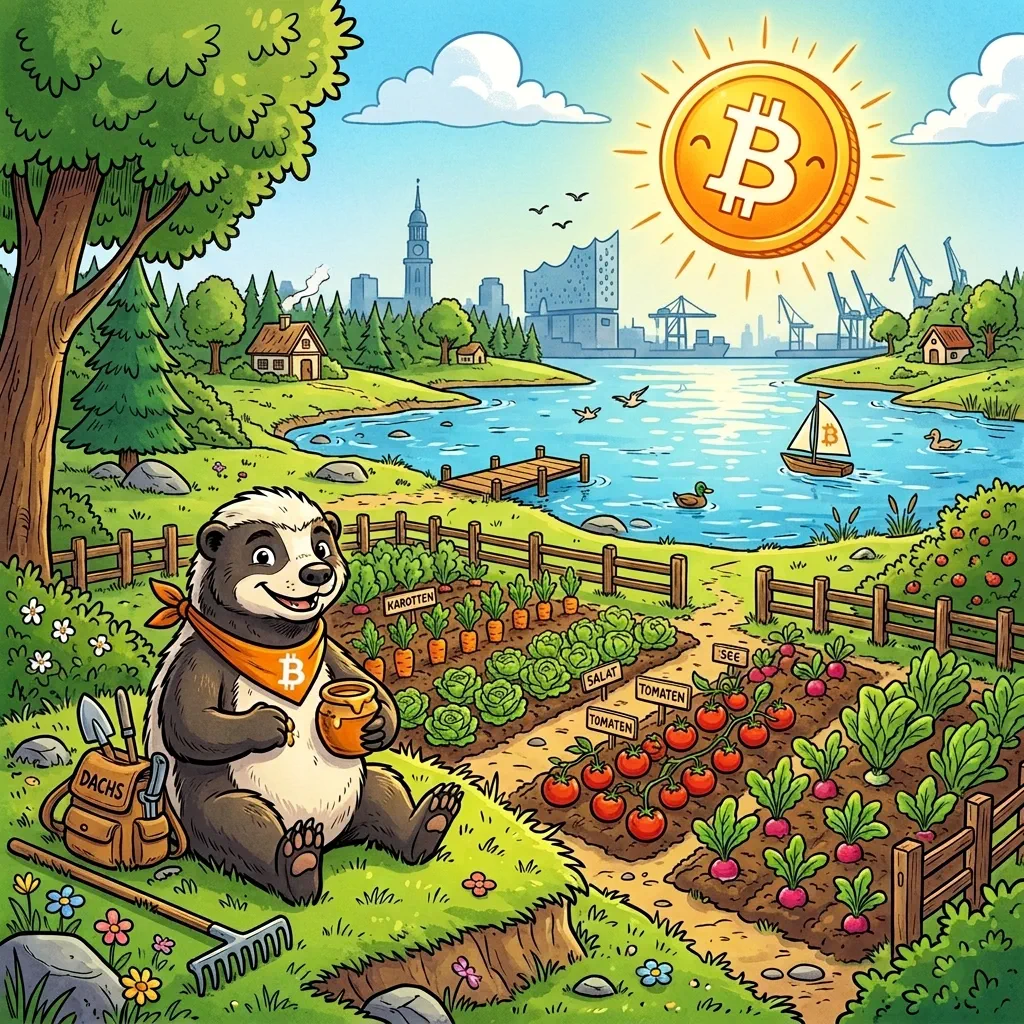
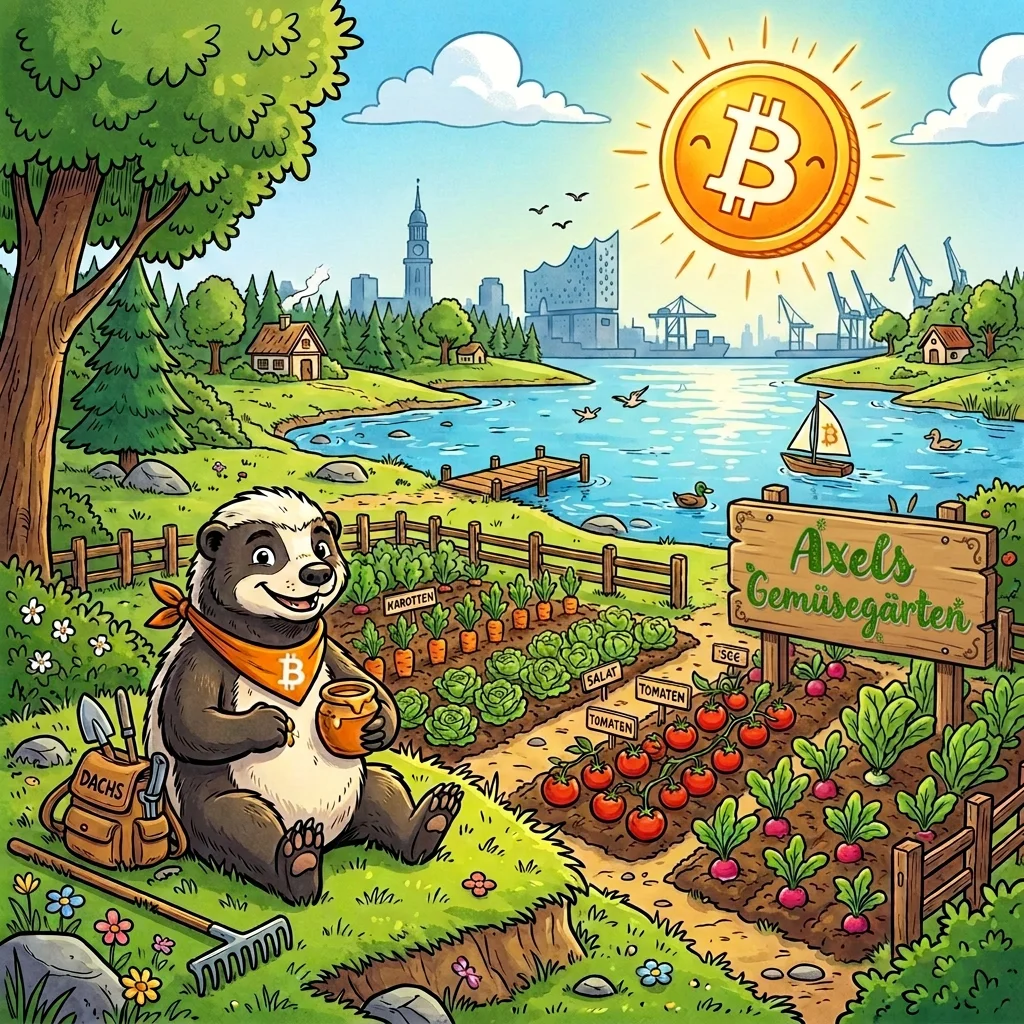
feat(poster): new illustration, drop A1 for A2, shrink PDF size
Neues Motiv (mit "Axels Gemüsegärten"-Schild) für Website und Plakat
aus temp/original/BAMO-mit-Logo-original(.png|_upscayl_4x.png)
übernommen.

- Plakat-Illustration als JPEG (statt verlustfrei PNG) eingebunden:
  BAMO21-Plakat-A4/A2.pdf schrumpft von ~36 MB auf ~3,1 MB.
- A1-Format durch A2 ersetzt (wird nicht mehr benötigt).
- Website-Illustration (assets/BAMO-Illustration.webp) und die
  Plakat-Web-Vorschau (public/poster) aktualisiert.
- BAMO21-Plakat-Vorschau.webp neu aus dem aktuellen Motiv gerendert.

diff --git a/poster/BAMO21-Plakat.html b/poster/BAMO21-Plakat.html
@@ -26,8 +26,8 @@
 			}
 
 			/*
-			 * Für A1 (594 × 841 mm): hier "size: 594mm 841mm;" eintragen und bei
-			 * .poster "zoom: 2.8284;" ergänzen. Chrome kennt kein Schlüsselwort "A1",
+			 * Für A2 (420 × 594 mm): hier "size: 420mm 594mm;" eintragen und bei
+			 * .poster "zoom: 2;" ergänzen. Chrome kennt kein Schlüsselwort "A2",
 			 * deshalb die Maße ausschreiben. Alles andere skaliert mit.
 			 */
 			@page {
@@ -272,7 +272,7 @@
 	<body>
 		<div class="poster">
 			<div class="art-frame">
-				<img src="BAMO-Illustration-4096.png" alt="" />
+				<img src="BAMO-Illustration-4096.jpg" alt="" />
 				<div class="fade"></div>
 				<p class="signature">Zuversicht<span>964025</span></p>
 			</div>

diff --git a/public/poster/index.html b/public/poster/index.html
@@ -26,8 +26,8 @@
 			}
 
 			/*
-			 * Für A1 (594 × 841 mm): hier "size: 594mm 841mm;" eintragen und bei
-			 * .poster "zoom: 2.8284;" ergänzen. Chrome kennt kein Schlüsselwort "A1",
+			 * Für A2 (420 × 594 mm): hier "size: 420mm 594mm;" eintragen und bei
+			 * .poster "zoom: 2;" ergänzen. Chrome kennt kein Schlüsselwort "A2",
 			 * deshalb die Maße ausschreiben. Alles andere skaliert mit.
 			 */
 			@page {
